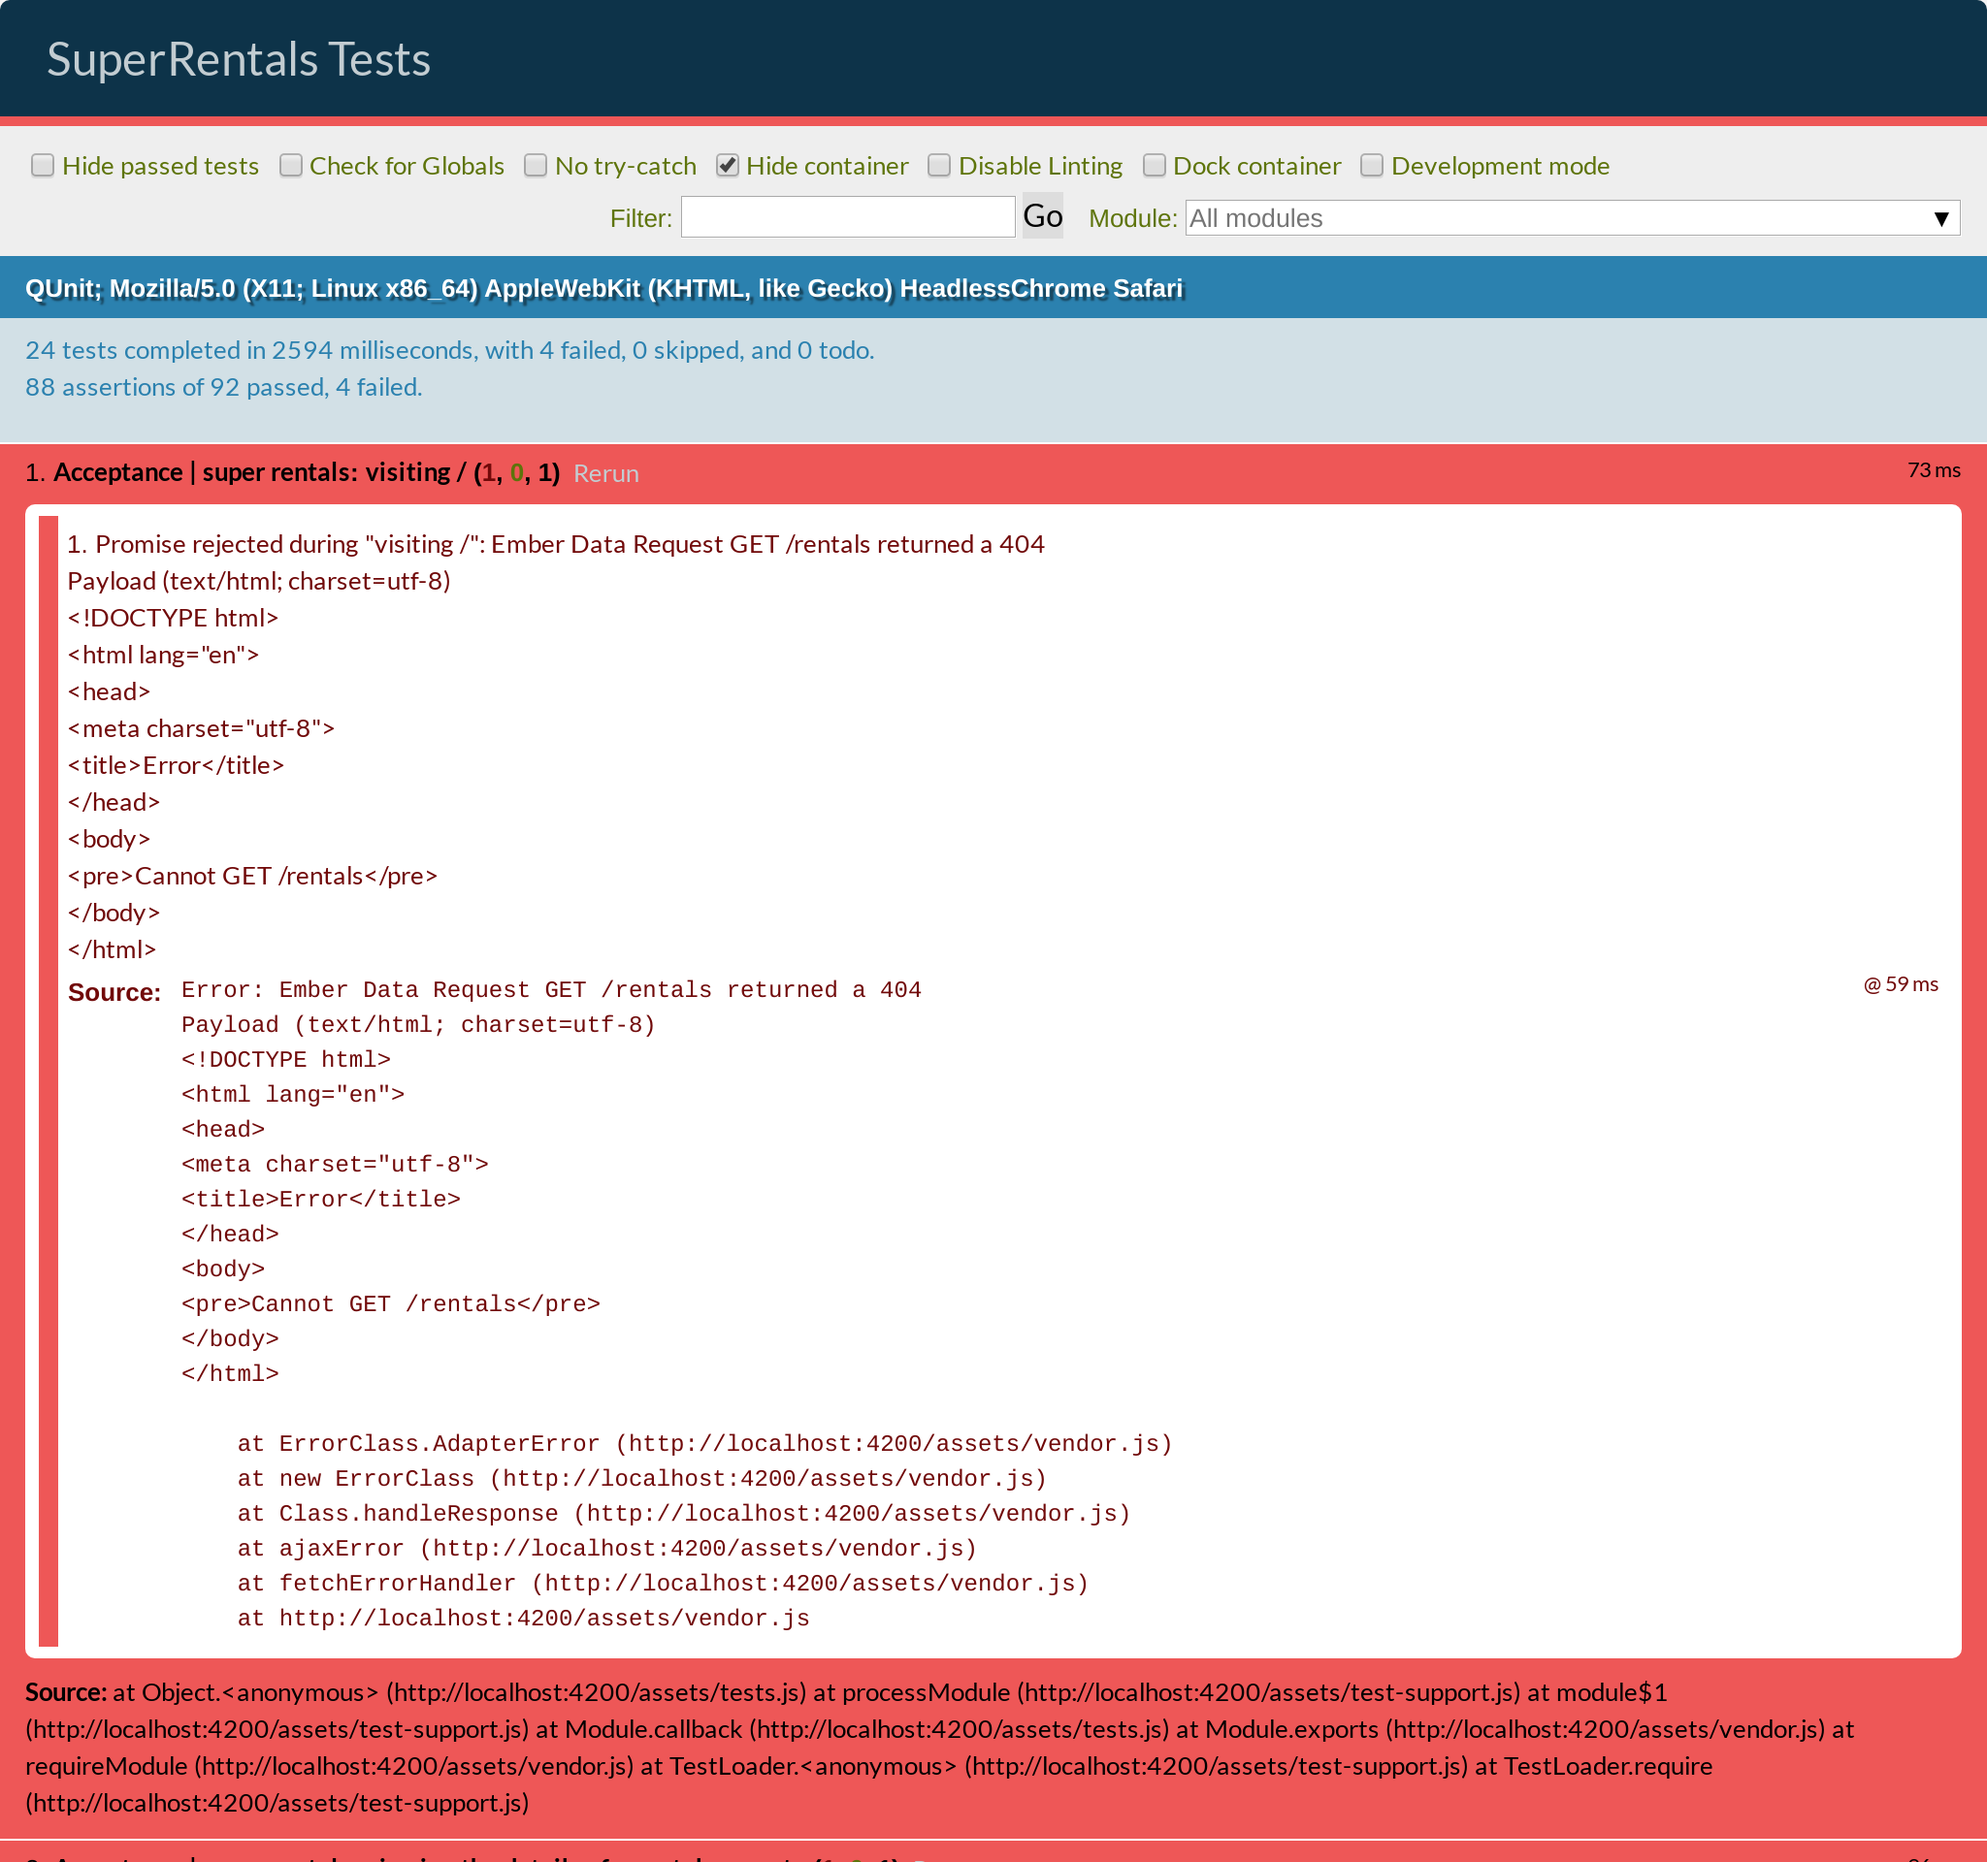
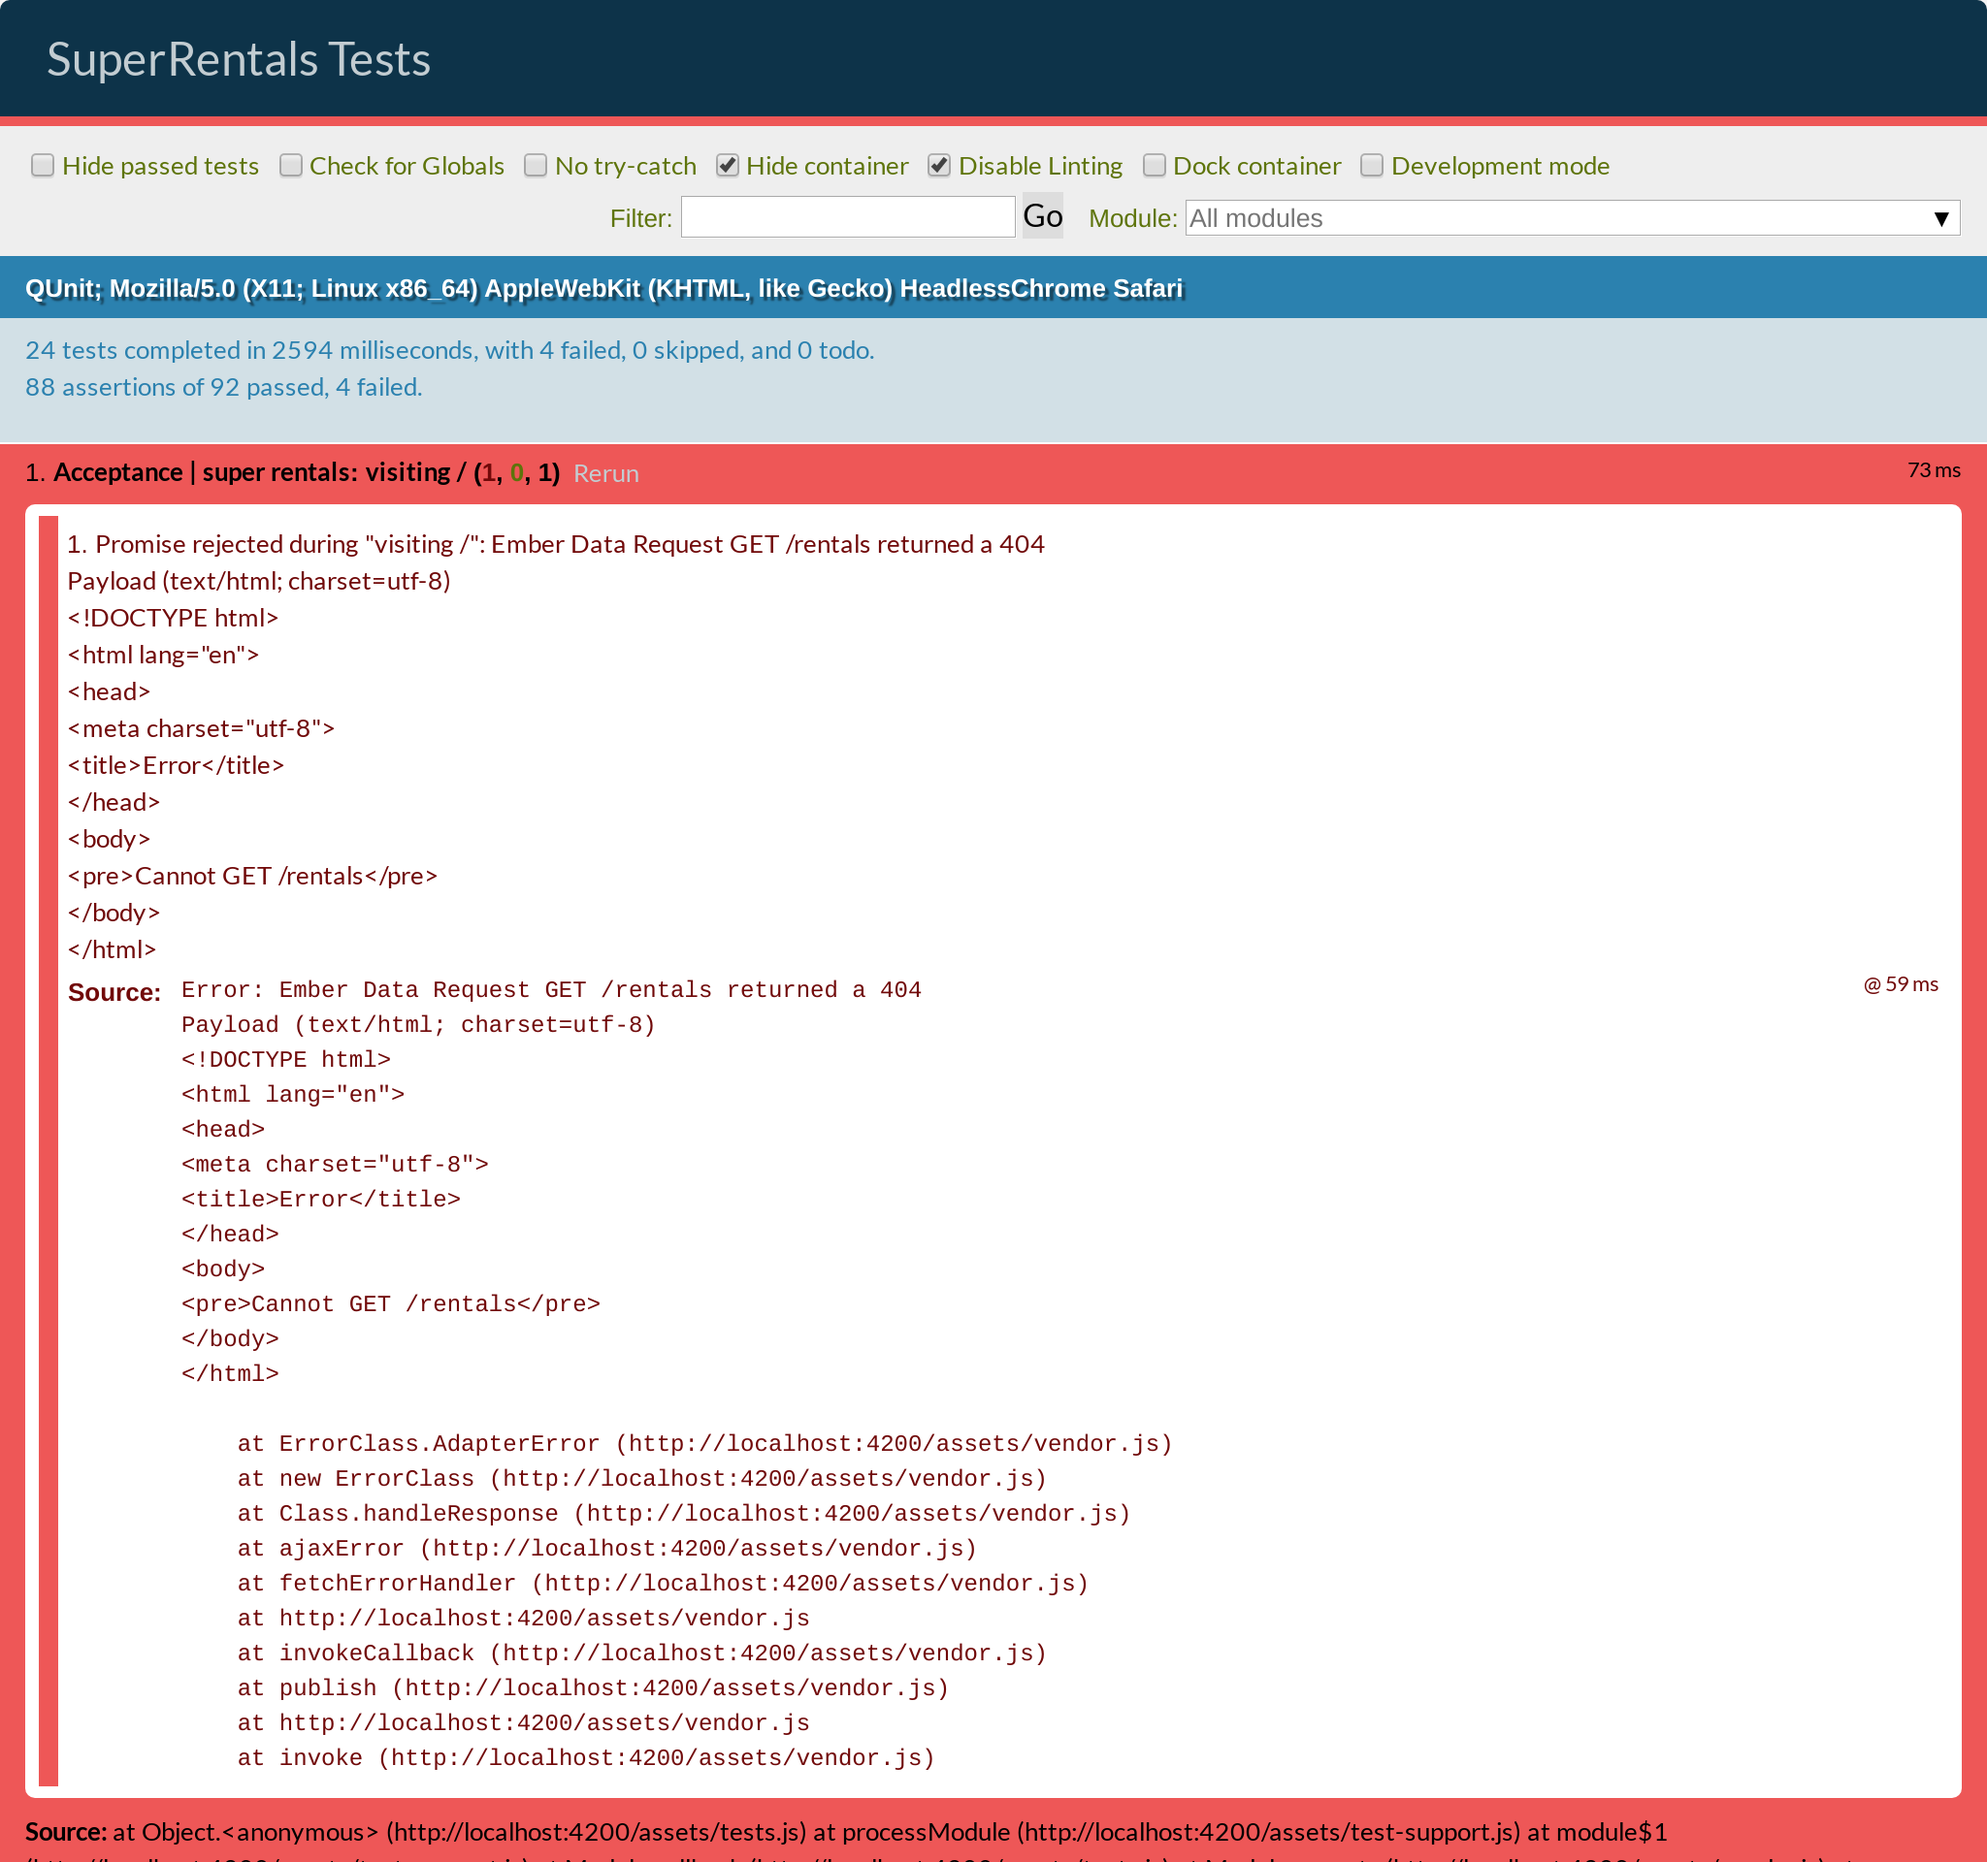
Run tests with `nolint`
This reduces the number of tests shown on screen and therefore the
height of the screenshots (matching how it was when we were using
the Octane blueprint).

---

Commit:  ember-learn/super-rentals-tutorial@87357c83cf047c2997c6bf32d7739671441e419c
Script:  https://github.com/ember-learn/super-rentals-tutorial/blob/87357c83cf047c2997c6bf32d7739671441e419c/.github/workflows/build.yml
Logs:    https://github.com/ember-learn/super-rentals-tutorial/commit/87357c83cf047c2997c6bf32d7739671441e419c/checks

Changed region(s): [[0.0, 0.875, 1.0, 1.0]]

diff --git a/guides/release/tutorial/part-1/orientation.md b/guides/release/tutorial/part-1/orientation.md
@@ -24,7 +24,7 @@ To verify that your installation was successful, run:
 
 ```shell
 $ ember --version
-ember-cli: 3.15.0
+ember-cli: 3.15.1
 node: 12.8.1
 os: linux x64
 ```
@@ -38,7 +38,7 @@ We can create a new project using Ember CLI's `new` command. It follows the patt
 ```shell
 $ ember new super-rentals
 installing app
-Ember CLI v3.15.0
+Ember CLI v3.15.1
 
 Creating a new Ember app in /home/runner/work/super-rentals-tutorial/super-rentals-tutorial/dist/code/super-rentals:
   create .editorconfig
@@ -160,7 +160,7 @@ Ember CLI comes with a lot of different commands for a variety of development ta
 
 ```shell
 $ ember server
-building...
+building... 
 
 Build successful (9761ms) – Serving on http://localhost:4200/
 ```
